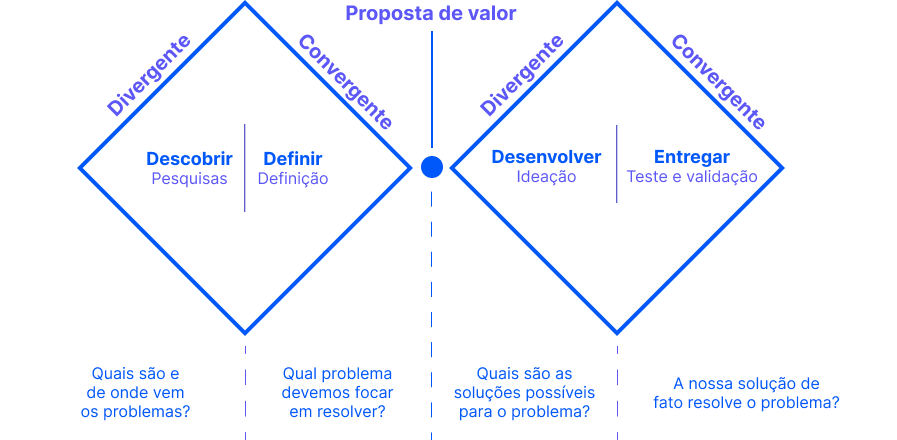
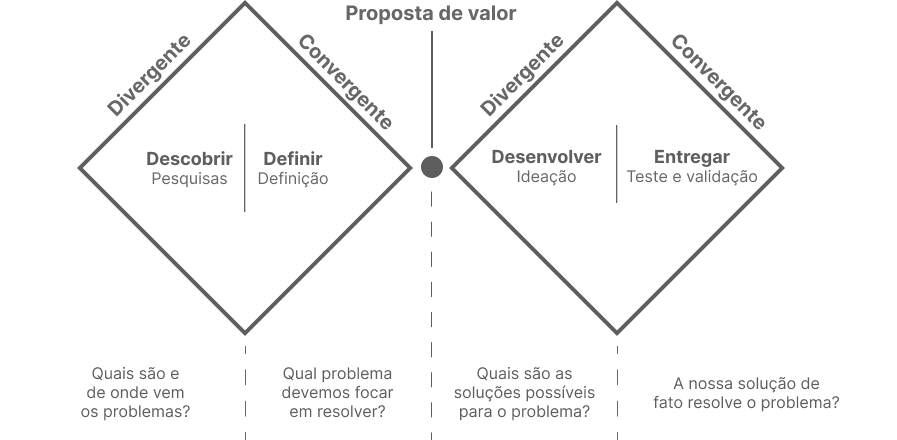
Mudando cores

diff --git a/scss/estilo.css b/scss/estilo.css
@@ -1,34 +1,51 @@
 @import url("https://fonts.googleapis.com/css2?family=Noto+Sans:ital,wght@0,100;0,200;0,300;0,4B8r3B4p7yhRXuBWLqsQ546WR43cqQwrbXMDFnBi6vSJBeif8tPW85a7r7DM961Jvk4hdryZoByEp8GC8HzsqJpRN4FxGM9=swap");
+/*
+$primaria:#7500B8;
+$primaria-escura:#3E0062;
+$primaria-clara:#A101FC;
+
+$primaria:#0057FA;
+$primaria-escura:#002F88;
+$primaria-clara:#5B94FF;
+*/
 .btn-primary {
   background-color: transparent;
-  color: #2B27B8;
-  border-color: #2B27B8;
+  color: #090909;
+  border-color: #090909;
 }
 
 .btn-primary:hover {
-  background-color: #5C57F6;
-  color: #ffffff;
-  border-color: #5C57F6;
+  background-color: #383838;
+  color: #ffffff !important;
+  border-color: #383838;
 }
 
 .btn-secondary {
-  background-color: #7500B8;
+  background-color: #090909;
   color: #ffffff;
-  border-color: #7500B8;
+  border-color: #090909;
 }
 
 .btn-secondary:hover {
-  background-color: #A101FC;
-  color: #ffffff;
-  border-color: #A101FC;
+  background-color: #383838;
+  color: #ffffff !important;
+  border-color: #383838;
+}
+
+a {
+  color: #000;
+}
+
+a:hover {
+  color: #383838;
 }
 
 header {
-  background: #0057FA;
+  background: #090909;
 }
 
 nav {
-  background-color: #5C57F6;
+  background-color: #090909;
 }
 
 .logo-header {
@@ -43,9 +60,9 @@ nav {
 
 .logo-header:hover {
   transition: ease all 0.4s;
-  color: #5B94FF;
-  border: 1px solid #5B94FF;
-  background-color: #002F88;
+  color: #383838;
+  border: 1px solid #383838;
+  background-color: #000;
 }
 
 ul.navbar-nav {
@@ -62,7 +79,7 @@ ul.navbar-nav > li > a {
 }
 
 ul.navbar-nav > li > a:hover, ul.navbar-nav > li > a:focus, ul.navbar-nav > li > a.active {
-  color: #1D1A7C;
+  color: #CCC9C9;
   transition: ease all 0.4s;
 }
 
@@ -147,7 +164,7 @@ ul.navbar-nav > li > a:hover, ul.navbar-nav > li > a:focus, ul.navbar-nav > li >
     height: 100%;
     width: 250px;
     text-align: right;
-    background: #1D1A7C;
+    background: #000;
     display: block !important;
     opacity: 1;
     transition: all 0.5s;
@@ -178,13 +195,13 @@ ul.navbar-nav > li > a:hover, ul.navbar-nav > li > a:focus, ul.navbar-nav > li >
 
 .logo-footer:hover {
   transition: ease all 0.4s;
-  color: #5B94FF;
-  border: 1px solid #5B94FF;
-  background-color: #002F88;
+  color: #383838;
+  border: 1px solid #383838;
+  background-color: #000;
 }
 
 footer {
-  background-color: #5C57F6;
+  background-color: #383838;
   color: #ffffff;
   padding: 16px 0;
 }
@@ -201,7 +218,7 @@ footer > div > div > div > h6 {
 
 .contato > ul > li > a:hover {
   transition: ease all 0.4s;
-  color: #002F88;
+  color: #000;
 }
 
 .copyright {
@@ -209,7 +226,7 @@ footer > div > div > div > h6 {
   color: #ffffff;
   margin: 0;
   padding: 8px 0;
-  background-color: #1D1A7C;
+  background-color: #000;
 }
 
 .ir-para-topo {
@@ -257,13 +274,13 @@ html, body {
 }
 
 h1 {
-  color: #2B27B8;
+  color: #090909;
   font-family: "Noto Sans", sans-serif;
   font-weight: 600;
 }
 
 h2 {
-  color: #5C57F6;
+  color: #383838;
   font-family: "Noto Sans", sans-serif;
   font-weight: 600;
 }
@@ -287,7 +304,7 @@ h5 {
 }
 
 h6 {
-  color: #0057FA;
+  color: #090909;
   font-family: "Noto Sans", sans-serif;
   font-weight: 500;
 }
@@ -306,7 +323,7 @@ p {
 .efeito > span {
   position: absolute;
   z-index: 0;
-  border-bottom: 10px solid #5C57F6;
+  border-bottom: 10px solid #383838;
   top: 35px;
   opacity: 0.5;
   border-top-left-radius: 100px;
@@ -343,7 +360,7 @@ section {
 }
 
 #projetos {
-  background-color: #002F88;
+  background-color: #090909;
 }
 
 .img-estilo {
@@ -356,9 +373,9 @@ section {
 }
 
 .img-sobre {
-  background-image: url("../images/sobre-1.png");
-  width: 355px;
-  height: 386px;
+  background-image: url("../images/sobre-2023-1.png");
+  width: 455px;
+  height: 400px;
   background-repeat: no-repeat;
   background-size: cover;
   transition: ease all 0.4s;
@@ -367,7 +384,7 @@ section {
 }
 
 .img-sobre:hover {
-  background-image: url("../images/sobre-2.png");
+  background-image: url("../images/sobre-2023-2.png");
   width: 355px;
   height: 386px;
   background-repeat: no-repeat;

diff --git a/scss/estilo.scss b/scss/estilo.scss
@@ -7,17 +7,19 @@ $semi-grossa:500;
 $grossa:600;
 
 // Cores
-$primaria:#2B27B8;
-$primaria-escura:#1D1A7C;
-$primaria-clara:#5C57F6;
+$primaria:#090909;
+$primaria-escura:#000;
+$primaria-clara:#383838;
 
-$secundaria:#7500B8;
-$secundaria-escura:#3E0062;
-$secundaria-clara:#A101FC;
+/*
+$primaria:#7500B8;
+$primaria-escura:#3E0062;
+$primaria-clara:#A101FC;
 
-$terciaria:#0057FA;
-$terciaria-escura:#002F88;
-$terciaria-clara:#5B94FF;
+$primaria:#0057FA;
+$primaria-escura:#002F88;
+$primaria-clara:#5B94FF;
+*/
 
 $neutro-preto:#000000;
 $neutro-preto-15:#272727;
@@ -45,26 +47,29 @@ $transitionEaseAll: ease all 0.4s;
 
 .btn-primary:hover{
     background-color: $primaria-clara;
-    color: $neutro-branco;
+    color: $neutro-branco !important;
     border-color: $primaria-clara;
 }
 
 .btn-secondary{    
-    background-color: $secundaria;
+    background-color: $primaria;
     color: $neutro-branco;
-    border-color: $secundaria;
+    border-color: $primaria;
 }
 
 .btn-secondary:hover{
-    background-color: $secundaria-clara;
-    color: $neutro-branco;
-    border-color: $secundaria-clara;
+    background-color: $primaria-clara;
+    color: $neutro-branco !important;
+    border-color: $primaria-clara;
 }
 
-// Header > Menu
-header{background: $terciaria;}
+a{color: $primaria-escura;}
+a:hover{color: $primaria-clara;}
 
-nav{background-color: $primaria-clara;}
+// Header > Menu
+header{background: $primaria;}
+
+nav{background-color: $primaria;}
 
 .logo-header{
     font-size: 28px;
@@ -78,9 +83,9 @@ nav{background-color: $primaria-clara;}
 
 .logo-header:hover{
     transition: $transitionEaseAll;
-    color: $terciaria-clara;
-    border: 1px solid $terciaria-clara;
-    background-color: $terciaria-escura;
+    color: $primaria-clara;
+    border: 1px solid $primaria-clara;
+    background-color: $primaria-escura;
 }
 
 ul.navbar-nav{
@@ -97,7 +102,7 @@ ul.navbar-nav > li > a{
 }
 
 ul.navbar-nav > li > a:hover, ul.navbar-nav > li > a:focus, ul.navbar-nav > li > a.active{
-    color: $primaria-escura;
+    color: $neutro-preto-80;
     transition: $transitionEaseAll;
 }
 
@@ -206,9 +211,9 @@ ul.navbar-nav > li > a:hover, ul.navbar-nav > li > a:focus, ul.navbar-nav > li >
 
 .logo-footer:hover{
     transition: $transitionEaseAll;
-    color: $terciaria-clara;
-    border: 1px solid $terciaria-clara;
-    background-color: $terciaria-escura;
+    color: $primaria-clara;
+    border: 1px solid $primaria-clara;
+    background-color: $primaria-escura;
 }
 
 footer{
@@ -227,7 +232,7 @@ footer > div > div > div > h6{color: $neutro-branco;}
 
 .contato > ul > li > a:hover{
     transition: $transitionEaseAll;
-    color: $terciaria-escura;
+    color: $primaria-escura;
 }
 
 .copyright{
@@ -312,7 +317,7 @@ h5{
 }
 
 h6{
-    color: $terciaria;
+    color: $primaria;
     font-family: $fonte;
     font-weight: $semi-grossa;
 }
@@ -369,7 +374,7 @@ section{
 }
 
 #projetos{
-    background-color: $terciaria-escura;
+    background-color: $primaria;
 }
 
 .img-estilo{
@@ -382,9 +387,9 @@ section{
 }
 
 .img-sobre{
-    background-image: url("../images/sobre-1.png");
-    width: 355px;
-    height: 386px;
+    background-image: url("../images/sobre-2023-1.png");
+    width: 455px;
+    height: 400px;
     background-repeat: no-repeat;
     background-size: cover;
     transition: $transitionEaseAll;
@@ -393,7 +398,7 @@ section{
 }
 
 .img-sobre:hover{
-    background-image: url("../images/sobre-2.png");
+    background-image: url("../images/sobre-2023-2.png");
     width: 355px;
     height: 386px;
     background-repeat: no-repeat;

diff --git a/index.html b/index.html
@@ -135,12 +135,6 @@
       <div class="container">
         <div class="row">
           <div class="space-100"></div>
-          <div class="efeito" data-aos="fade-down">
-            <h1>Sobre</h1>
-            <span style="width: 100px"></span>
-          </div>
-        </div>
-        <div class="row">
           <div class="col-12 col-lg-4 d-flex justify-content-center">
             <div class="img-sobre animate__animated animate__pulse"></div>
           </div>

diff --git a/projetos/aqui-emprestimo/aqui-emprestimo.html b/projetos/aqui-emprestimo/aqui-emprestimo.html
@@ -310,7 +310,7 @@
           <div class="col-lg-12">
             <h2 data-aos="fade-up">
               <a href="https://www.aquiemprestimo.com.br/" target="_blank"
-                style="text-decoration: none; color: #0057fa">www.aquiemprestimo.com.br</a>
+                style="text-decoration: none;">www.aquiemprestimo.com.br</a>
             </h2>
           </div>
         </div>
